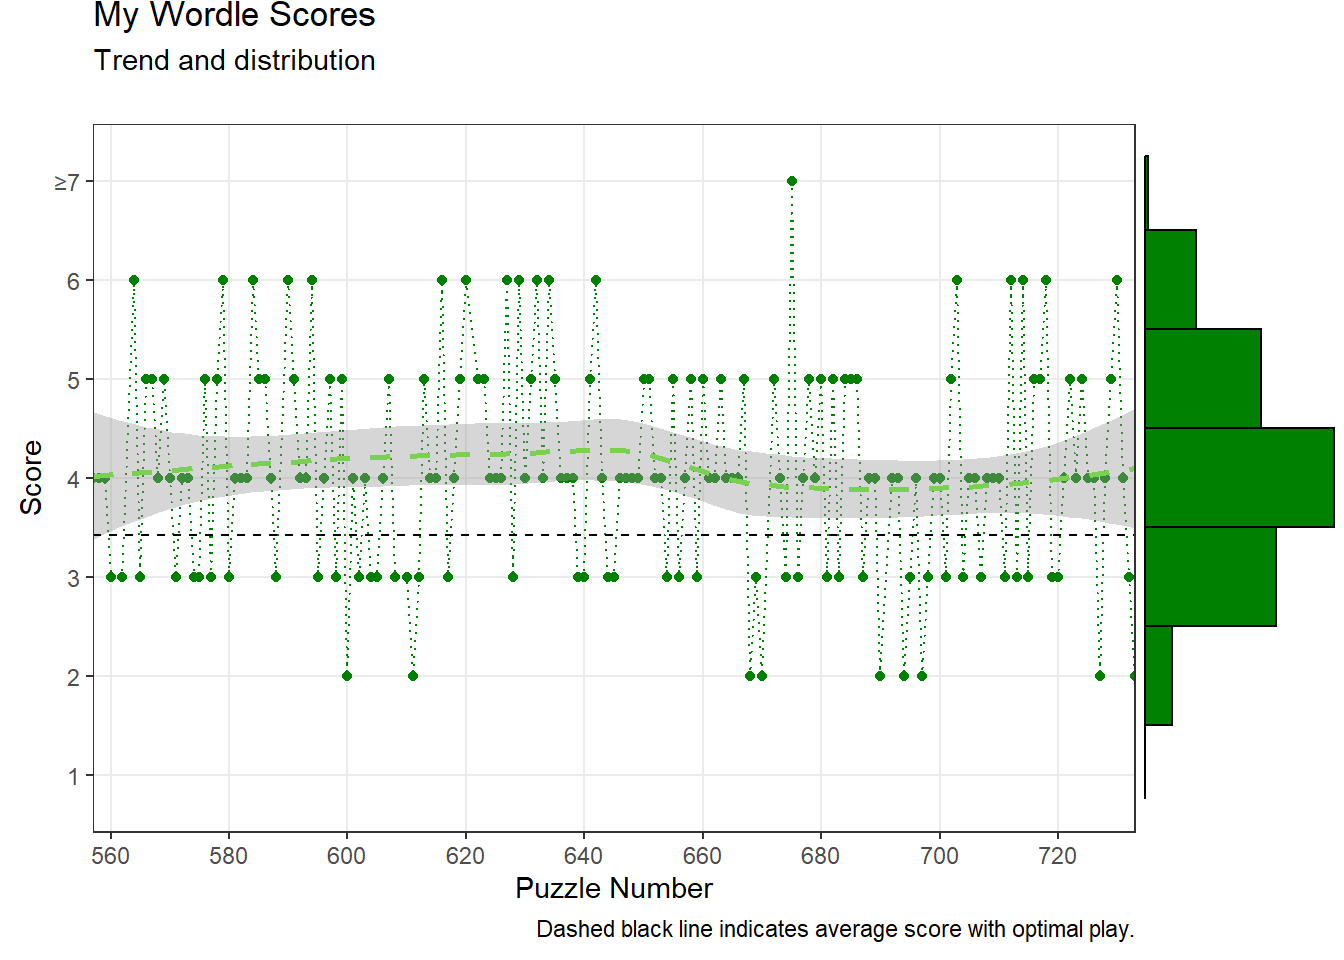
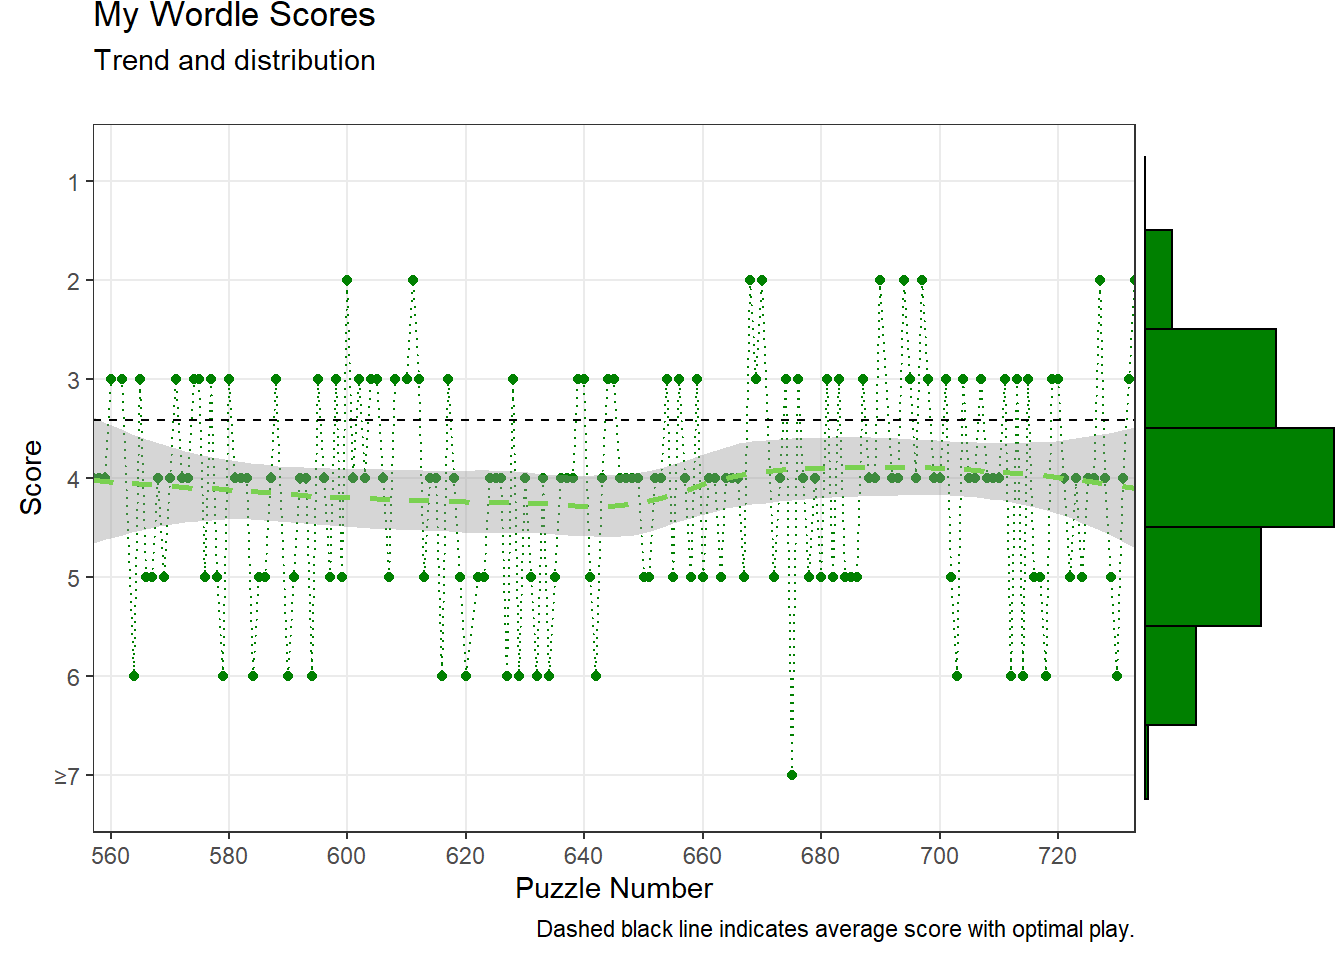
reverse y axis in wordle chart

diff --git a/posts/wordle_scores/wordle_scores.html b/posts/wordle_scores/wordle_scores.html
@@ -201,22 +201,25 @@ pre > code.sourceCode > span > a:first-child::before { text-decoration: underlin
 <span id="cb2-7"><a href="#cb2-7" aria-hidden="true" tabindex="-1"></a>  <span class="fu">geom_smooth</span>(<span class="at">colour =</span> <span class="st">"#7AD151"</span>, <span class="at">linetype =</span> <span class="st">"dashed"</span>) <span class="sc">+</span></span>
 <span id="cb2-8"><a href="#cb2-8" aria-hidden="true" tabindex="-1"></a>  <span class="fu">geom_hline</span>(<span class="at">yintercept =</span> <span class="fl">3.4201</span>, <span class="at">linetype =</span> <span class="st">"dashed"</span>) <span class="sc">+</span></span>
 <span id="cb2-9"><a href="#cb2-9" aria-hidden="true" tabindex="-1"></a>  <span class="co"># scales</span></span>
-<span id="cb2-10"><a href="#cb2-10" aria-hidden="true" tabindex="-1"></a>  <span class="fu">scale_y_continuous</span>(<span class="at">limits =</span> <span class="fu">c</span>(<span class="fl">0.75</span>, <span class="fl">7.25</span>), <span class="at">breaks =</span> <span class="dv">1</span><span class="sc">:</span><span class="dv">7</span>, <span class="at">labels =</span> <span class="fu">c</span>(<span class="dv">1</span><span class="sc">:</span><span class="dv">6</span>, <span class="st">"≥7"</span>)) <span class="sc">+</span></span>
-<span id="cb2-11"><a href="#cb2-11" aria-hidden="true" tabindex="-1"></a>  <span class="fu">scale_x_continuous</span>(<span class="at">n.breaks =</span> <span class="dv">12</span>, <span class="at">expand =</span> <span class="fu">c</span>(<span class="dv">0</span>, <span class="dv">0</span>)) <span class="sc">+</span></span>
-<span id="cb2-12"><a href="#cb2-12" aria-hidden="true" tabindex="-1"></a>  <span class="co"># labels</span></span>
-<span id="cb2-13"><a href="#cb2-13" aria-hidden="true" tabindex="-1"></a>  <span class="fu">labs</span>(<span class="at">title =</span> <span class="st">"My Wordle Scores"</span>,</span>
-<span id="cb2-14"><a href="#cb2-14" aria-hidden="true" tabindex="-1"></a>       <span class="at">subtitle =</span> <span class="st">"Trend and distribution"</span>,</span>
-<span id="cb2-15"><a href="#cb2-15" aria-hidden="true" tabindex="-1"></a>       <span class="at">x =</span> <span class="st">"Puzzle Number"</span>, </span>
-<span id="cb2-16"><a href="#cb2-16" aria-hidden="true" tabindex="-1"></a>       <span class="at">y =</span> <span class="st">"Score"</span>,</span>
-<span id="cb2-17"><a href="#cb2-17" aria-hidden="true" tabindex="-1"></a>       <span class="at">caption =</span> <span class="st">"Dashed black line indicates average score with optimal play."</span>) <span class="sc">+</span></span>
-<span id="cb2-18"><a href="#cb2-18" aria-hidden="true" tabindex="-1"></a>  <span class="co"># theming</span></span>
-<span id="cb2-19"><a href="#cb2-19" aria-hidden="true" tabindex="-1"></a>  <span class="fu">theme_bw</span>() <span class="sc">+</span></span>
-<span id="cb2-20"><a href="#cb2-20" aria-hidden="true" tabindex="-1"></a>  <span class="fu">theme</span>(<span class="at">panel.grid.minor =</span> <span class="fu">element_blank</span>())) <span class="sc">|&gt;</span></span>
-<span id="cb2-21"><a href="#cb2-21" aria-hidden="true" tabindex="-1"></a>  <span class="co"># add the marginal histogram</span></span>
-<span id="cb2-22"><a href="#cb2-22" aria-hidden="true" tabindex="-1"></a>  <span class="fu">ggMarginal</span>(<span class="at">type =</span> <span class="st">"histogram"</span>, </span>
-<span id="cb2-23"><a href="#cb2-23" aria-hidden="true" tabindex="-1"></a>             <span class="at">margins =</span> <span class="st">"y"</span>, </span>
-<span id="cb2-24"><a href="#cb2-24" aria-hidden="true" tabindex="-1"></a>             <span class="at">fill =</span> <span class="st">"#008000"</span>,</span>
-<span id="cb2-25"><a href="#cb2-25" aria-hidden="true" tabindex="-1"></a>             <span class="at">yparams =</span> <span class="fu">list</span>(<span class="at">bins =</span> <span class="dv">7</span>, <span class="at">center =</span> <span class="dv">0</span>, <span class="at">binwidth =</span> <span class="dv">1</span>))</span></code><button title="Copy to Clipboard" class="code-copy-button"><i class="bi"></i></button></pre></div>
+<span id="cb2-10"><a href="#cb2-10" aria-hidden="true" tabindex="-1"></a>  <span class="fu">scale_y_continuous</span>(<span class="at">limits =</span> <span class="fu">c</span>(<span class="fl">7.25</span>, <span class="fl">0.75</span>), </span>
+<span id="cb2-11"><a href="#cb2-11" aria-hidden="true" tabindex="-1"></a>                     <span class="at">breaks =</span> <span class="dv">1</span><span class="sc">:</span><span class="dv">7</span>, </span>
+<span id="cb2-12"><a href="#cb2-12" aria-hidden="true" tabindex="-1"></a>                     <span class="at">labels =</span> <span class="fu">c</span>(<span class="dv">1</span><span class="sc">:</span><span class="dv">6</span>, <span class="st">"≥7"</span>), </span>
+<span id="cb2-13"><a href="#cb2-13" aria-hidden="true" tabindex="-1"></a>                     <span class="at">trans =</span> <span class="st">"reverse"</span>) <span class="sc">+</span></span>
+<span id="cb2-14"><a href="#cb2-14" aria-hidden="true" tabindex="-1"></a>  <span class="fu">scale_x_continuous</span>(<span class="at">n.breaks =</span> <span class="dv">12</span>, <span class="at">expand =</span> <span class="fu">c</span>(<span class="dv">0</span>, <span class="dv">0</span>)) <span class="sc">+</span></span>
+<span id="cb2-15"><a href="#cb2-15" aria-hidden="true" tabindex="-1"></a>  <span class="co"># labels</span></span>
+<span id="cb2-16"><a href="#cb2-16" aria-hidden="true" tabindex="-1"></a>  <span class="fu">labs</span>(<span class="at">title =</span> <span class="st">"My Wordle Scores"</span>,</span>
+<span id="cb2-17"><a href="#cb2-17" aria-hidden="true" tabindex="-1"></a>       <span class="at">subtitle =</span> <span class="st">"Trend and distribution"</span>,</span>
+<span id="cb2-18"><a href="#cb2-18" aria-hidden="true" tabindex="-1"></a>       <span class="at">x =</span> <span class="st">"Puzzle Number"</span>, </span>
+<span id="cb2-19"><a href="#cb2-19" aria-hidden="true" tabindex="-1"></a>       <span class="at">y =</span> <span class="st">"Score"</span>,</span>
+<span id="cb2-20"><a href="#cb2-20" aria-hidden="true" tabindex="-1"></a>       <span class="at">caption =</span> <span class="st">"Dashed black line indicates average score with optimal play."</span>) <span class="sc">+</span></span>
+<span id="cb2-21"><a href="#cb2-21" aria-hidden="true" tabindex="-1"></a>  <span class="co"># theming</span></span>
+<span id="cb2-22"><a href="#cb2-22" aria-hidden="true" tabindex="-1"></a>  <span class="fu">theme_bw</span>() <span class="sc">+</span></span>
+<span id="cb2-23"><a href="#cb2-23" aria-hidden="true" tabindex="-1"></a>  <span class="fu">theme</span>(<span class="at">panel.grid.minor =</span> <span class="fu">element_blank</span>())) <span class="sc">|&gt;</span></span>
+<span id="cb2-24"><a href="#cb2-24" aria-hidden="true" tabindex="-1"></a>  <span class="co"># add the marginal histogram</span></span>
+<span id="cb2-25"><a href="#cb2-25" aria-hidden="true" tabindex="-1"></a>  <span class="fu">ggMarginal</span>(<span class="at">type =</span> <span class="st">"histogram"</span>, </span>
+<span id="cb2-26"><a href="#cb2-26" aria-hidden="true" tabindex="-1"></a>             <span class="at">margins =</span> <span class="st">"y"</span>, </span>
+<span id="cb2-27"><a href="#cb2-27" aria-hidden="true" tabindex="-1"></a>             <span class="at">fill =</span> <span class="st">"#008000"</span>,</span>
+<span id="cb2-28"><a href="#cb2-28" aria-hidden="true" tabindex="-1"></a>             <span class="at">yparams =</span> <span class="fu">list</span>(<span class="at">bins =</span> <span class="dv">7</span>, <span class="at">center =</span> <span class="dv">0</span>, <span class="at">binwidth =</span> <span class="dv">1</span>))</span></code><button title="Copy to Clipboard" class="code-copy-button"><i class="bi"></i></button></pre></div>
 </details>
 <div class="cell-output-display">
 <div class="quarto-figure quarto-figure-center">
@@ -587,7 +590,7 @@ window.document.addEventListener("DOMContentLoaded", function (event) {
 });
 </script>
 </div> <!-- /content -->
-<script>var lightboxQuarto = GLightbox({"openEffect":"zoom","loop":true,"closeEffect":"zoom","selector":".lightbox","descPosition":"bottom"});</script>
+<script>var lightboxQuarto = GLightbox({"selector":".lightbox","closeEffect":"zoom","descPosition":"bottom","openEffect":"zoom","loop":true});</script>
 
 
 

diff --git a/posts.html b/posts.html
@@ -170,7 +170,7 @@ May 3, 2023
 </a>
 </div>
 </div>
-<div class="quarto-post image-right" data-index="1" data-listing-date-sort="1680235200000" data-listing-file-modified-sort="1687472010117" data-listing-date-modified-sort="NaN" data-listing-reading-time-sort="2">
+<div class="quarto-post image-right" data-index="1" data-listing-date-sort="1680235200000" data-listing-file-modified-sort="1687479961419" data-listing-date-modified-sort="NaN" data-listing-reading-time-sort="2">
 <div class="thumbnail">
 <p><a href="./posts/wordle_scores/wordle_scores.html"> <img src="./posts/wordle_scores/wordle_scores.png" class="thumbnail-image"> </a></p>
 </div>
